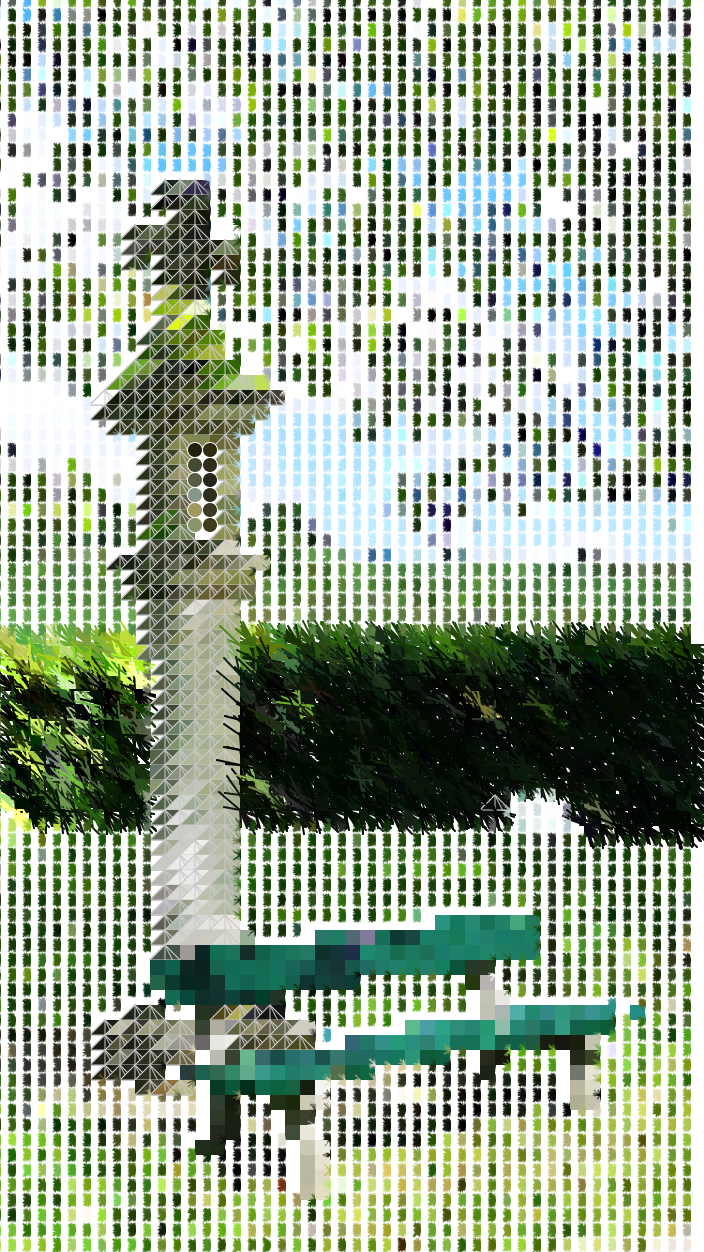
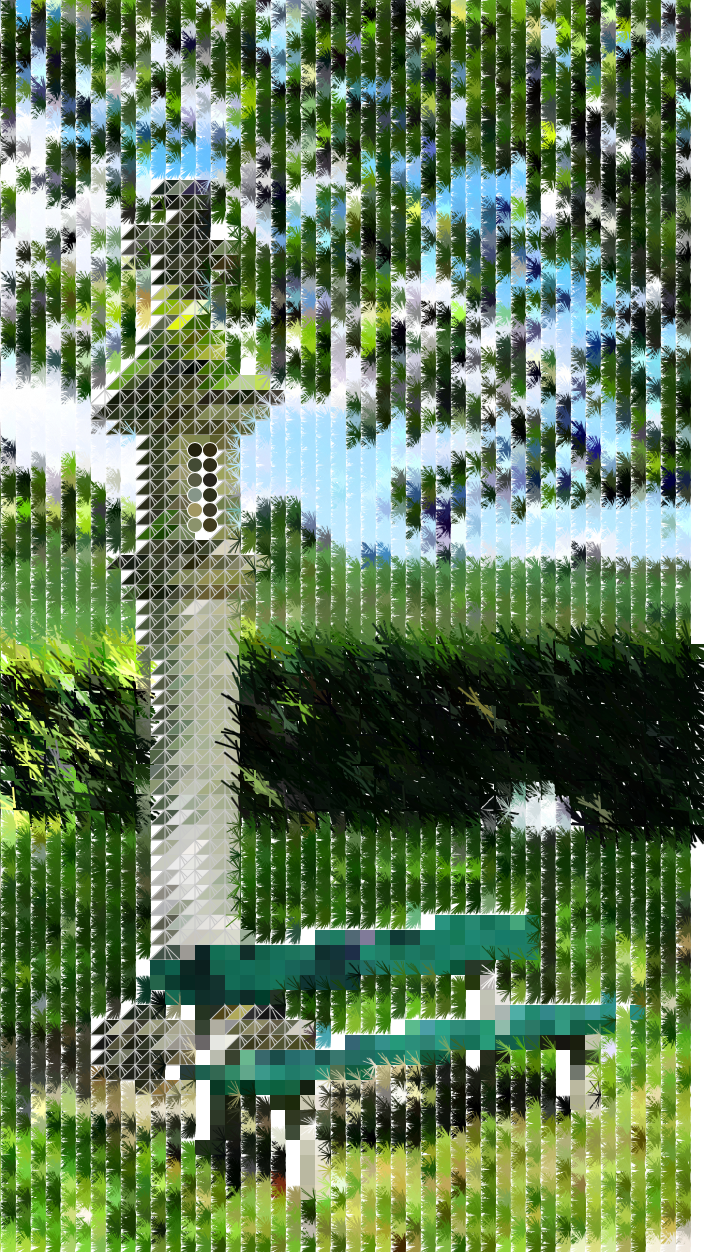
this

diff --git a/sketch.js b/sketch.js
@@ -2,9 +2,9 @@ let sourceImg=null;
 let maskImg=null;
 let renderCounter=0;
 
-let sourceFile = "denkmal.jpg";
-let maskFile   = "denkmalMask.png";
-let outputFile = "artwork_2.png";
+let sourceFile = "maibaum.jpg";
+let maskFile   = "maibaum.png";
+let outputFile = "artwork_1.png";
 
 function preload() {
 
@@ -52,26 +52,34 @@ function draw () {
         triangle(x-chunkWidth,y+chunkHeight,x,y,x+chunkWidth,y+chunkHeight);
         triangle(x,y,x,y+chunkHeight,x+(chunkWidth/2),y+chunkHeight);
       }
-      else if (mask[0] > 101 && mask[0]<151) {
-        // stroke(155);
-        // let cwx = chunkWidth/2;
-        // let chx = chunkHeight/2;
-        // rect(x,y,cwx,chx);
-        // rect(x+cwx,y,cwx,chx);
-        // rect(x,y+chx,cwx,chx);
-        // rect(x+cwx,y+chx,cwx,chx);
-        noStroke();
+      else if (mask[0] > 149 && mask[0]<151) {
+        stroke(0);
         fill(pixl)
-        rect(x,y,chunkWidth,chunkHeight);
+        rect(x,y,chunkWidth/2,chunkHeight/2);
+        rect(x+chunkWidth/2,y,chunkWidth/2,chunkHeight/2);
+        rect(x-chunkWidth/2,y,chunkWidth/2,chunkHeight/2);
+        rect(x-chunkWidth,y,chunkWidth/2,chunkHeight/2);
+        rect(x,y+chunkHeight/2,chunkWidth/2,chunkHeight/2);
+        rect(x+chunkWidth/2,y+chunkHeight/2,chunkWidth/2,chunkHeight/2);
+        rect(x-chunkWidth/2,y+chunkHeight/2,chunkWidth/2,chunkHeight/2);
+        rect(x-chunkWidth,y+chunkHeight/2,chunkWidth/2,chunkHeight/2);
       } 
       else if (mask[0]>199 && mask[0]<201) {
         stroke(255);
         strokeWeight(1);
-        ellipse(x,y,15,15);
+        ellipse(x-chunkWidth/2,y-chunkWidth/2,15,15);
+        ellipse(x-chunkWidth/2,y,15,15);
+        // ellipse(x,y-chunkWidth/2,15,15);
+        // ellipse(x,y,15,15);
+        // ellipse(x+chunkWidth/2,y-chunkWidth/2,15,15);
+        // ellipse(x+chunkWidth/2,y,15,15);
+        ellipse(x-chunkWidth/2,y+chunkWidth/2,15,15);
+        // ellipse(x,y+chunkWidth/2,15,15);
+        // ellipse(x+chunkWidth/2,y+chunkWidth/2,15,15);
       }
-      else if (mask[0]>250) {
+      else if (mask[0]>254) {
         stroke(pixl);
-        strokeWeight(2);
+        // strokeWeight(2);
         line(x,y,x+chunkWidth,y+chunkHeight);
         line(x,y,x2,y2);
         line(x,y,x3,y3);
@@ -82,22 +90,6 @@ function draw () {
       else{
         stroke(pixl);
         strokeWeight(0.5);
-        //rect(x,y,chunkWidth,chunkHeight);
-        // let cpx= x+(chunkWidth/2);
-        // let cpy= y+(chunkHeight/2);
-         let hc = chunkHeight/2;
-        // let xmax= x+chunkHeight;
-        // let ymax= y+chunkWidth;
-        
-        // line(x,y+hc,cpx,cpy);
-        // line(x,y,cpx,cpy);
-        // line(x,ymax,cpx,cpy);
-        // line(cpx,y,cpx,cpy);
-        // line(cpx,ymax,cpx,cpy);
-        // line(cpx,cpy,xmax,ymax);
-        // line(cpx,cpy,xmax,y+hc);
-        // line(cpx,cpy,xmax,y);
-
         for (let i =0; i < 4; i++) {
           let x1 = x-floor(random(chunkWidth));
           let x2 = x-floor(random(chunkWidth));
